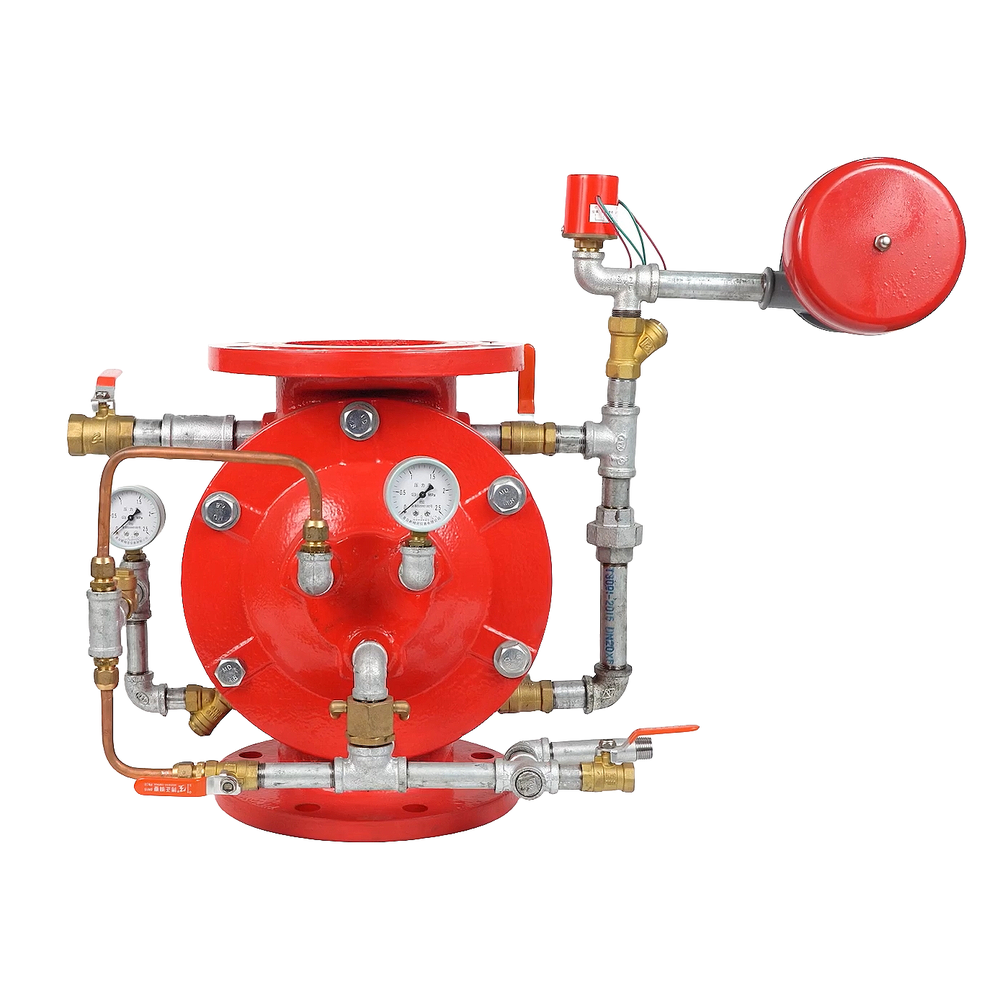
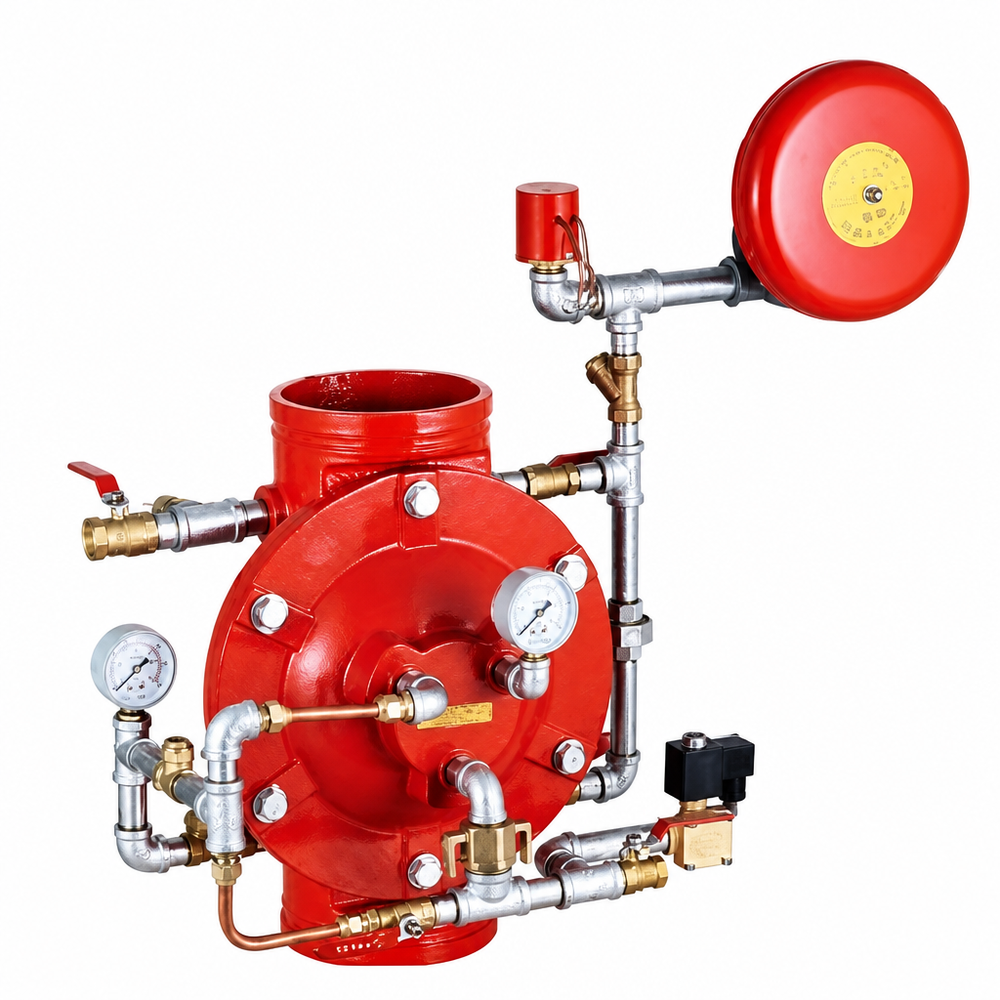
fix(images): replace 5 product brochure screenshots with white-bg product images
- Add cleaned white-background images for ZDMS fire cannon, suction vortex
  preventer, foam fire hydrant cabinet (PSG30), backflow preventer (HS41X)
- Replace deluge alarm valve (ZSFM) image with user-provided product photo
- Point products.ts refs from brochure pages (cannon_p45/p42, valves_p21,
  hs41x.jpg) to unified /assets/products/ assets

diff --git a/src/utils/products.ts b/src/utils/products.ts
@@ -378,7 +378,7 @@ export const products: Product[] = [
       'Sensor Enclosure': 'Anti-UV High Strength Engineered ABS IP66',
       'Nozzle Head': 'Stainless Steel 316'
     },
-    image: '/assets/06_extinguishing_cannons/cannon_p45.png?v=20260729',
+    image: '/assets/products/auto-tracking-jet-suppression-cannon-zdms.png',
     seoTitle: 'ZDMS Automatic Tracking Fire Water Cannon | IR/UV Detection | Wanlian Fluid',
     seoDescription: 'Smart auto-tracking fire monitor ZDMS. Multi-band IR/UV flame detection, rapid autonomous suppression. Best choice for large spatial indoor protection.'
   },
@@ -463,7 +463,7 @@ export const products: Product[] = [
       'Internal Support Legs': 'Stainless Steel 304',
       'Fasteners & Bolts': 'Stainless Steel 304'
     },
-    image: '/assets/02_valves_parts/valves_p21.png?v=20260729',
+    image: '/assets/products/suction-vortex-preventer-en12845.png',
     seoTitle: 'EN12845 Suction Vortex Preventer | SS304/SS316 | Wanlian Fluid',
     seoDescription: 'High efficiency SS304/SS316 Suction Vortex Preventer EN12845. Eliminates vortexes, protects water pumps from cavitation, increases tank capacity utilization.'
   },
@@ -492,7 +492,7 @@ export const products: Product[] = [
       'Intermediate Drain Valve': 'Solid Brass / Stainless Steel 304',
       'Main Springs': 'Stainless Steel 304'
     },
-    image: '/assets/products/anti-pollution-backflow-preventer-hs41x.jpg',
+    image: '/assets/products/anti-pollution-backflow-preventer-hs41x.png',
     seoTitle: 'HS41X Anti-Pollution Backflow Preventer | Potable Water | Wanlian Fluid',
     seoDescription: 'Durable Anti-pollution backflow preventer HS41X. Double check valves with intermediate automatic drainage cavity. Ensures potable water network safety.'
   },
@@ -521,7 +521,7 @@ export const products: Product[] = [
       'Proportioner & Nozzle': 'Solid Brass Alloy / Heavy Duty Aluminum',
       'Hose Pipe': 'EPDM Rubber Reinforced with High-tensile Polyester'
     },
-    image: '/assets/06_extinguishing_cannons/cannon_p42.png?v=20260729',
+    image: '/assets/products/foam-fire-hydrant-cabinet-psg30.png',
     seoTitle: 'PSG30 Foam Fire Hydrant Cabinet | 3% AFFF | Wanlian Fluid',
     seoDescription: 'Consolidated Foam Fire Cabinet PSG30 with 3% AFFF foam tank. Highly effective against fuel and chemical class B fires. Buy directly from China manufacturer.'
   },
